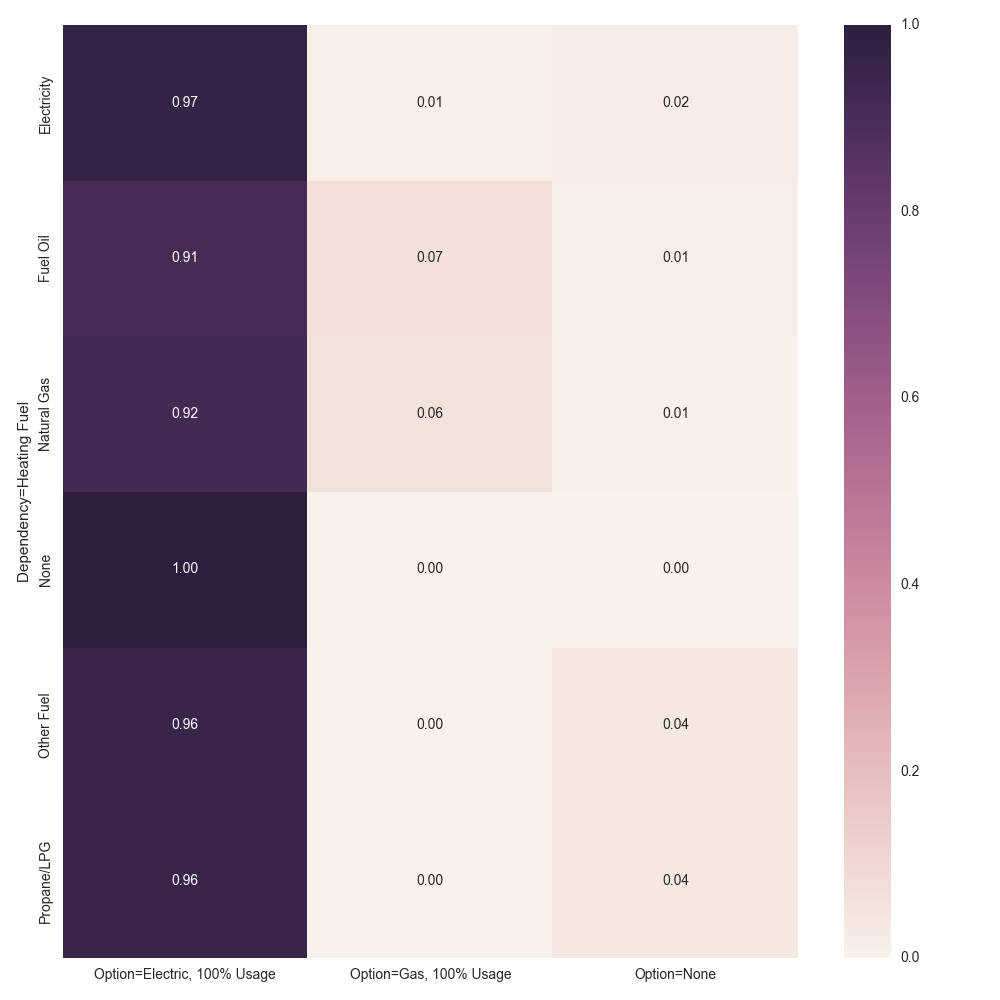
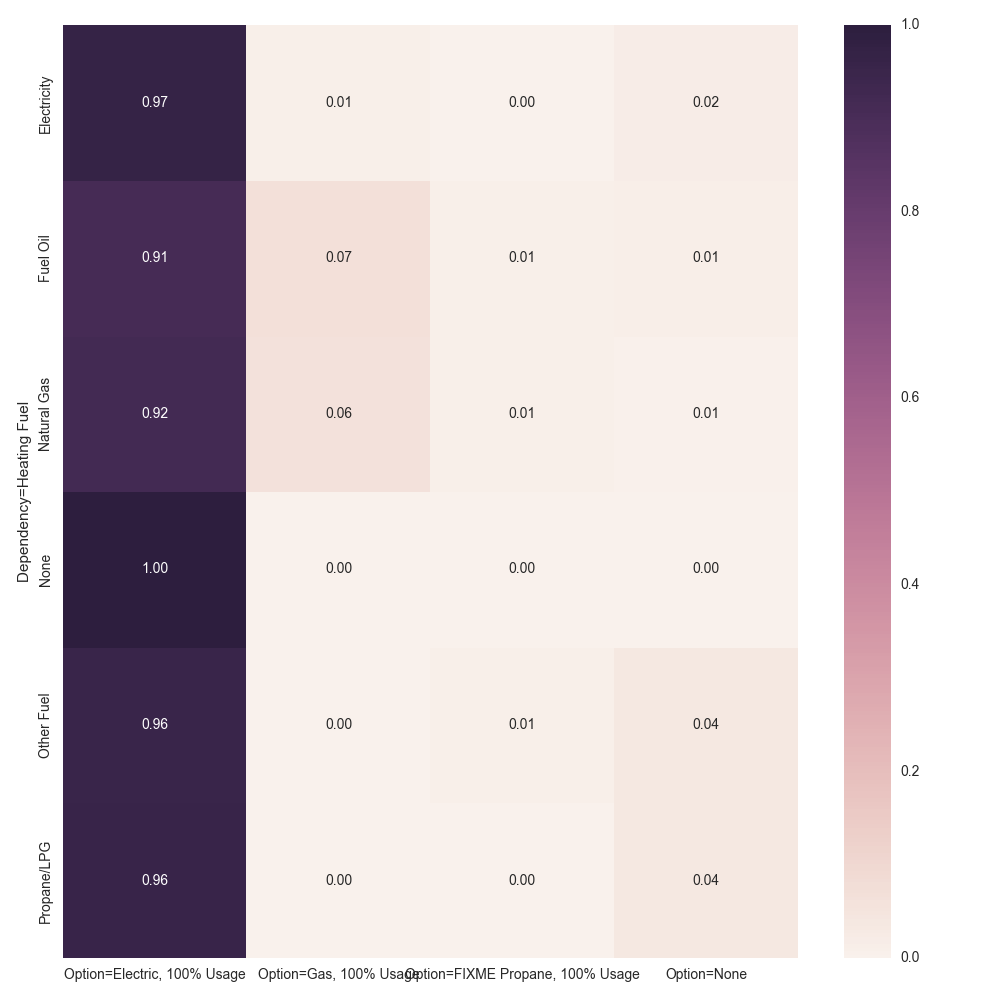
Adding propane cooking range and clothes dryer back in. Removing None duct option.

diff --git a/data/rbsa/main.py b/data/rbsa/main.py
@@ -1053,7 +1053,7 @@ class Create_DFs():
             df_new['Weight'] = 0
             df = df.append(df_new)
         df = add_option_prefix(df)
-        df = df[['Option=7.5% Leakage, Uninsulated', 'Option=7.5% Leakage, R-4', 'Option=7.5% Leakage, R-6', 'Option=7.5% Leakage, R-8', 'Option=10% Leakage, Uninsulated', 'Option=10% Leakage, R-4', 'Option=10% Leakage, R-6', 'Option=10% Leakage, R-8', 'Option=15% Leakage, Uninsulated', 'Option=15% Leakage, R-4', 'Option=15% Leakage, R-6', 'Option=15% Leakage, R-8', 'Option=20% Leakage, Uninsulated', 'Option=20% Leakage, R-4', 'Option=20% Leakage, R-6', 'Option=20% Leakage, R-8', 'Option=30% Leakage, Uninsulated', 'Option=30% Leakage, R-4', 'Option=30% Leakage, R-6', 'Option=30% Leakage, R-8', 'Option=In Finished Space', 'Option=None', 'Count', 'Weight']]
+        df = df[['Option=7.5% Leakage, Uninsulated', 'Option=7.5% Leakage, R-4', 'Option=7.5% Leakage, R-6', 'Option=7.5% Leakage, R-8', 'Option=10% Leakage, Uninsulated', 'Option=10% Leakage, R-4', 'Option=10% Leakage, R-6', 'Option=10% Leakage, R-8', 'Option=15% Leakage, Uninsulated', 'Option=15% Leakage, R-4', 'Option=15% Leakage, R-6', 'Option=15% Leakage, R-8', 'Option=20% Leakage, Uninsulated', 'Option=20% Leakage, R-4', 'Option=20% Leakage, R-6', 'Option=20% Leakage, R-8', 'Option=30% Leakage, Uninsulated', 'Option=30% Leakage, R-4', 'Option=30% Leakage, R-6', 'Option=30% Leakage, R-8', 'Option=In Finished Space', 'Count', 'Weight']]
         df = df.reset_index()
         df['Dependency=Vintage'] = pd.Categorical(df['Dependency=Vintage'], ['<1950', '1950s', '1960s', '1970s', '1980s', '1990s', '2000s'])
         df = df.sort_values(by=['Dependency=Geometry Foundation Type', 'Dependency=Vintage']).set_index(['Dependency=Geometry Foundation Type', 'Dependency=Vintage'])
@@ -1102,7 +1102,7 @@ class Create_DFs():
         df['Count'] = count
         df['Weight'] = weight
         df = add_option_prefix(df)
-        df = df[['Option=Electric, 100% Usage', 'Option=Gas, 100% Usage', 'Option=None', 'Count', 'Weight']]
+        df = df[['Option=Electric, 100% Usage', 'Option=Gas, 100% Usage', 'Option=FIXME Propane, 100% Usage', 'Option=None', 'Count', 'Weight']]
         return df               
         
     def clothes_dryer(self):
@@ -1117,7 +1117,7 @@ class Create_DFs():
         df['Count'] = count
         df['Weight'] = weight
         df = add_option_prefix(df)
-        df = df[['Option=Electric, 100% Usage', 'Option=Gas, 100% Usage', 'Option=None', 'Count', 'Weight']]
+        df = df[['Option=Electric, 100% Usage', 'Option=Gas, 100% Usage', 'Option=FIXME Propane, 100% Usage', 'Option=None', 'Count', 'Weight']]
         return df
 
 def to_figure(df, file):
@@ -1145,7 +1145,7 @@ if __name__ == '__main__':
     dfs = Create_DFs('rbsa.sqlite')
     
 #    for category in ['Location Region', 'Vintage', 'Heating Fuel', 'Geometry Foundation Type', 'Geometry House Size', 'Geometry Stories', 'Insulation Unfinished Attic', 'Insulation Wall', 'Heating Setpoint', 'Cooling Setpoint', 'Insulation Slab', 'Insulation Crawlspace', 'Insulation Unfinished Basement', 'Insulation Finished Basement', 'Insulation Interzonal Floor', 'Windows', 'Infiltration', 'HVAC System Combined', 'HVAC System Heating', 'HVAC System Cooling', 'HVAC System Is Combined', 'Ducts', 'Water Heater', 'Lighting', 'Cooking Range', 'Clothes Dryer', 'Insulation Wall H1', 'Insulation Wall H2', 'Insulation Wall H3', 'Insulation Unfinished Attic H1', 'Insulation Unfinished Attic H2', 'Insulation Unfinished Attic H3', 'Windows H1', 'Windows H2', 'Windows H3']:
-    for category in ['Cooking Range', 'Clothes Dryer', 'Insulation Wall H1', 'Insulation Wall H2', 'Insulation Wall H3', 'Insulation Unfinished Attic H1', 'Insulation Unfinished Attic H2', 'Insulation Unfinished Attic H3', 'Windows H1', 'Windows H2', 'Windows H3']:
+    for category in ['Ducts']:
         print category
         method = getattr(dfs, category.lower().replace(' ', '_'))
         df = method()

diff --git a/data/rbsa/util.py b/data/rbsa/util.py
@@ -713,7 +713,7 @@ def assign_ducts(df):
     
     def ductrval(sfducts):
         if len(sfducts) == 0:
-            return 'None'
+            pass
         for ducts in sfducts:
             if ducts.ductinsulationtype:
                 return sfductsRval[ducts.ductinsulationtype]
